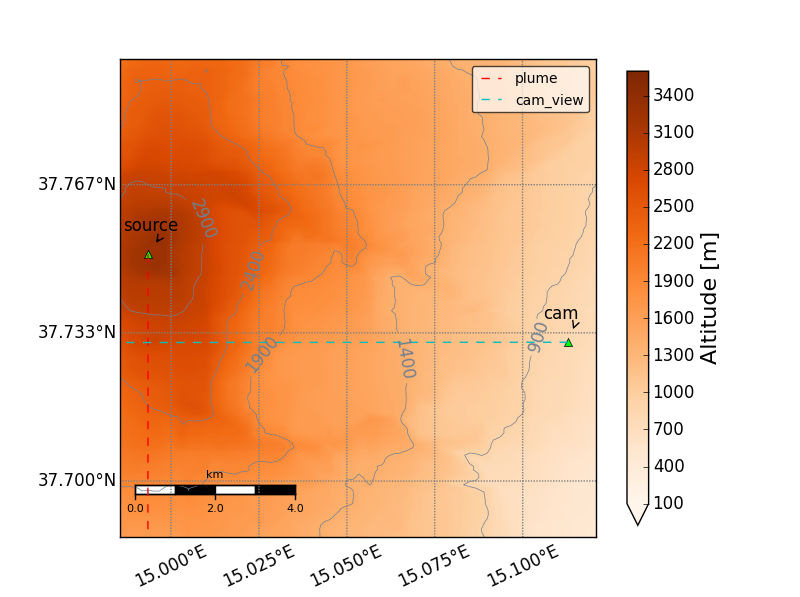
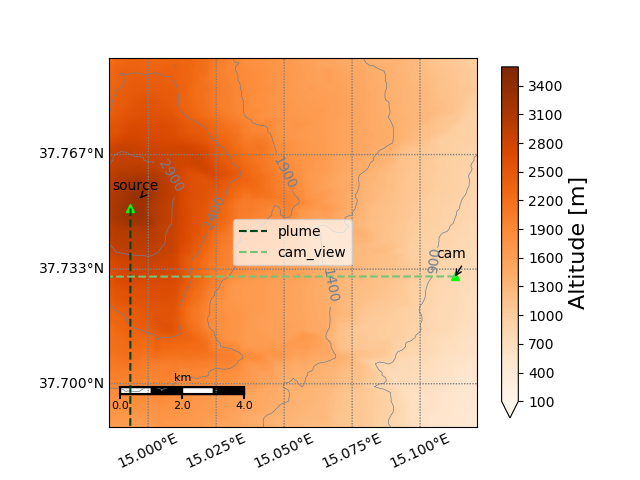
Changed color style of drawing GeoVectors in basemap objects for GeoSetup class

diff --git a/geonum/geosetup.py b/geonum/geosetup.py
@@ -24,7 +24,8 @@ muliple geo point and geo vector objects.
 from numpy import asarray, nanmin, nanmax
 from os.path import exists
 from traceback import print_exc
-from matplotlib.pyplot import subplots
+from warnings import warn
+from matplotlib.pyplot import subplots, get_cmap
 
 from .base import GeoPoint, GeoVector3D
 from .topodata import TopoDataAccess, TopoData
@@ -35,27 +36,46 @@ class GeoSetup(object):
     """
     def __init__(self, points=[], vectors=[], lat_ll=None, lon_ll=None, 
                  lat_tr=None, lon_tr=None, id="MyGeoSetup", 
-                 topo_access_mode="srtm", local_topo_path=None):
+                 topo_access_mode="srtm", local_topo_path=None, 
+                 cmap_vecs="Greens"):
         """Init object
         
-        
-        :param list points: list of :class:`GeoPoint` objects to be 
-            included in this setup
-        :param list vectors: list of :class:`GeoVector3D` objects to be 
-            included in this setup
-        :param float lat_ll (None): lower left latitude of regime
-        :param float lon_ll (None): lower left longitude of regime
-        :param float lat_tr (None): top right latitude of regime
-        :param float lon_tr (None): top right longitude of regime
-        :param str id ("MyGeoSetup"): identification string of this setup
-        :param str topo_access_mode ("srtm"): topo data mode 
+        Parameters
+        ----------
+        points : list
+            list of :class:`GeoPoint` objects to be included in this setup
+        vectors : list
+            list of :class:`GeoVector3D` objects to be included in this\
+            setup
+        lat_ll : :obj:`float`, optional
+            lower left latitude of regime
+        lon_ll : :obj:`float`, optional
+            lower left longitude of regime
+        lat_tr : :obj:`float`, optional
+            top right latitude of regime
+        lon_tr : :obj:`float`, optional
+            top right longitude of regime
+        id : str 
+            identification string of this setup
+        topo_access_mode : str
+            topo data mode, default is SRTM
             (see :class:`TopoDataAccess` for details)
-        :param str local_topo_path (None): local path were topography data 
-            is stored
+        local_topo_path : str 
+            local path were topography data (e.g. ETOPO1 data) is stored
+        cmap_vecs : str
+            String specifying a valid matplotlib colormap supposed to be
+            used for drawing :class:`GeoVector3D` objects into overview
+            maps
         """
         self.id = id
         self.points = {}
         self.vectors = {}
+        
+        try:
+            cmap = get_cmap(cmap_vecs)
+        except:
+            cmap = get_cmap("Greens")
+        self.cmap = cmap
         
         self.topo_access = TopoDataAccess(topo_access_mode, 
                                           local_topo_path) 
@@ -443,7 +463,7 @@ class GeoSetup(object):
     def plot_2d(self, draw_all_points=True, draw_all_vectors=True,
                 draw_topo=True, draw_coastline=True, draw_mapscale=True,
                 draw_legend=True, *args, **kwargs):
-        """High level plottting function to draw an overview map
+        """Draw overview map of the current setup
         
         :param bool draw_all_points (True): if true, all points are included
         :param bool draw_all_vectors (True): if true, all vectors (with anchor) 
@@ -487,12 +507,17 @@ class GeoSetup(object):
                         ang = ang - step * p_close_count
                         p_close_count += 1
                     m.write_point_name_2d(pt, dist, ang)
+        
+        #create some color indices for colormap
+        nums = [int(255.0 / k) for k in range(1, len(self.vectors)+3)]
         if draw_all_vectors:
-            for vec in self.vectors.values():
-                m.draw_geo_vector_2d(vec, label = vec.name)
+            for i, vec in enumerate(self.vectors.values()):
+                m.draw_geo_vector_2d(vec, 
+                                     c=self.cmap(nums[i]),
+                                     label=vec.name)
         if draw_legend:
             m.legend()
-
+        
         return m
                 
     def plot_3d(self, draw_all_points=True, draw_all_vectors=True, 
@@ -553,16 +578,19 @@ class GeoSetup(object):
                         alts.append(pt.altitude)
     
                     except Exception as e:
-                        print ("Point %s could not be drawn: %s"
-                                                        %(pt.name, repr(e)))
+                        warn("Point %s could not be drawn: %s"
+                             %(pt.name, repr(e)))
                         pass
         if draw_all_vectors:
-            for name, vec in self.vectors.iteritems():
+            nums = [int(255.0 / k) for k in range(1, len(self.vectors)+3)]
+            for i, vec in enumerate(self.vectors.values()):
                 try:
-                    m.draw_geo_vector_3d(vec, label = vec.name, **kwargs)
+                    m.draw_geo_vector_3d(vec, label=vec.name,
+                                         c=self.cmap(nums[i]),
+                                         **kwargs)
                 except Exception as e:
-                    print ("Vector %s could not be drawn: %s"
-                                                        %(vec.name, repr(e)))
+                    warn("Vector %s could not be drawn: %s"
+                         %(vec.name, repr(e)))
                     pass
                 
         return m

diff --git a/scripts/ex2_geosetup_intro.py b/scripts/ex2_geosetup_intro.py
@@ -4,7 +4,7 @@ Introduction into the GeoSetup class
 """
 
 from geonum import GeoPoint, GeoVector3D, GeoSetup
-from matplotlib.pyplot import show
+from matplotlib.pyplot import show, close
 from os.path import join
 from os import getcwd
 ### Set save directory for figures
@@ -44,6 +44,7 @@ def plot_geosetup(geosetup):
     return map2d, map3d
     
 if __name__ == "__main__":
+    close("all")
     s = create_geosetup()
     map2d, map3d = plot_geosetup(s)
     map2d.ax.figure.savefig(join(save_path, "ex2_out_1_map2D.png"))
